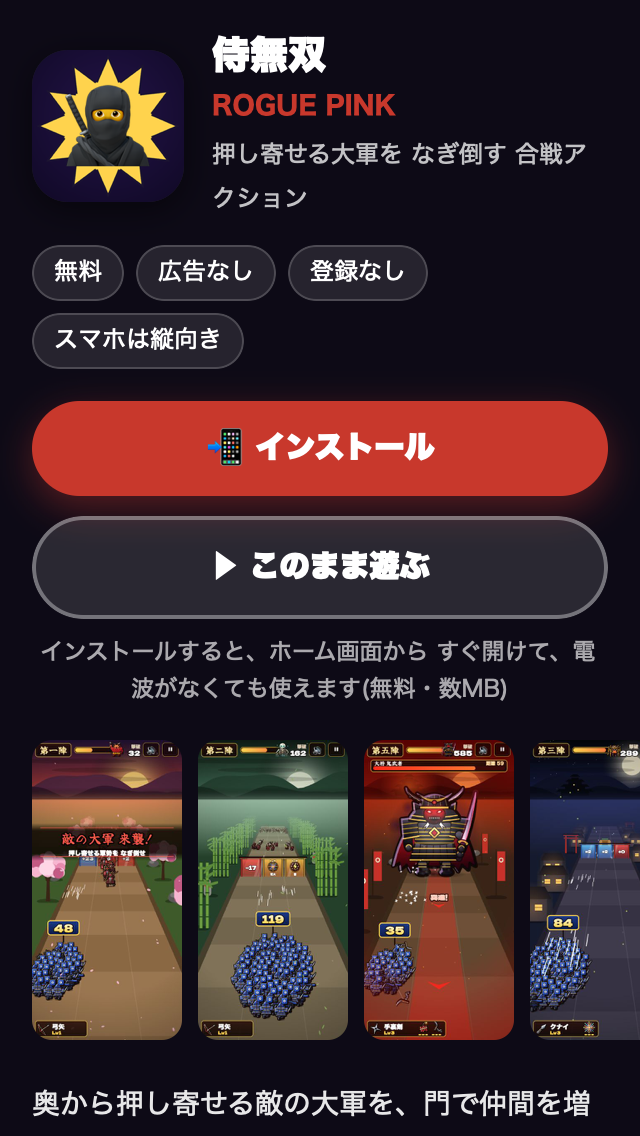
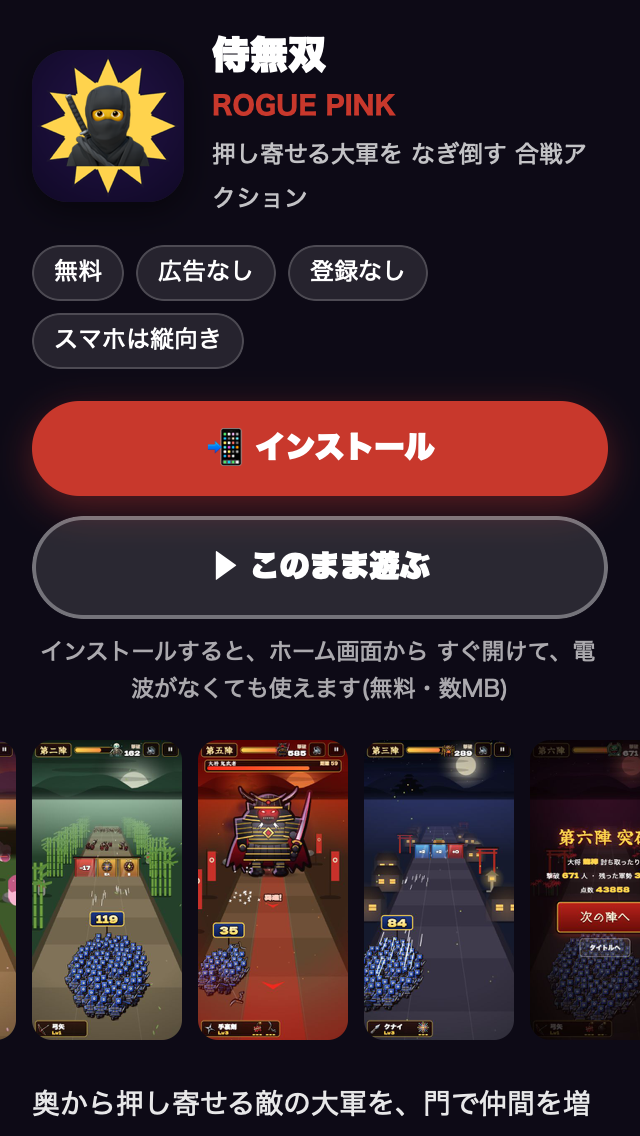
第五陣から少しずつ 増える量・減る量を大きくして 人数の上下をはげしく

Changed region(s): [[0.0, 0.647, 1.0, 0.9243]]

diff --git a/game.js b/game.js
@@ -151,15 +151,18 @@ var G = {
 };
 function n0(s) { return Math.min(30, 10 + 2 * (s - 1)); }
 function D(s) { return 1 + 0.08 * (s - 1); }
+function GK(s) { return 1 + Math.min(1.6, Math.max(0, s - 4) * 0.1); }   // 第五陣から 増える量・減る量を少しずつ大きく(人数の上下を はげしく)
 function expN(s, p) { var a = n0(s), e = 220 * (1 + 0.12 * (s - 1)); return a * Math.pow(e / a, p); }
 function unitDps(p) { return 3 + 3 * p; }
 function expDPS(s, p) { return expN(s, p) * unitDps(p); }
 function mainUnitDps() { var w = MAIN[G.main]; return w.dmg * w.rate * LVMUL[G.mainLv] * G.power; }
 function P() { return Math.max(1, G.n) * mainUnitDps(); }                                  // いまの攻撃の強さ(1秒あたり)
-function bulletDmgExp(s, p) { return expN(s, p) * (1 + 0.8 * p) / MAX_SHOOT; }            // ふつうの1発の強さ
+function expE(s, p) { return expN(s, p) * (1 + (GK(s) - 1) * 0.75); }   // 敵の強さの もとになる人数(味方が増えるぶん 敵も少し強く)
+function bulletDmgExp(s, p) { return expE(s, p) * (1 + 0.8 * p) / MAX_SHOOT; }            // ふつうの1発の強さ
 function actBulletDmg() { return Math.max(1, G.n) * MAIN[G.main].dmg * LVMUL[G.mainLv] * G.power / Math.min(G.n || 1, MAX_SHOOT); }
 function hpUnit(s, p) { return (0.6 * bulletDmgExp(s, p) + 0.4 * Math.min(actBulletDmg(), bulletDmgExp(s, p) * 3)) * D(s); }
-function powUnit(s, p) { return Math.max(1, Math.round(expN(s, p) * 0.017 * Math.sqrt(D(s)))); }
+function s5rec() { return Math.max(3, 6 - Math.floor(Math.max(0, G.stage - 4) / 3)); }   // 何人倒すと1人 降参するか(陣が進むと少なく)
+function powUnit(s, p) { return Math.max(1, Math.round(expE(s, p) * 0.017 * Math.sqrt(D(s)))); }
 function squadR() { return 7.4 * Math.sqrt(Math.max(1, Math.min(G.nShow, MAXSHOW))) + 10; }
 
 /* ---------------- 陣を組み立てる ---------------- */
@@ -172,6 +175,8 @@ function buildStage(s) {
     if (s >= 3) plan.splice(9, 0, 'K');
     if (s >= 4) plan.splice(5, 0, 'W');
     if (s >= 6) plan.splice(12, 0, 'A');
+    if (s >= 7) plan.splice(6, 0, 'J');
+    if (s >= 10) plan.splice(13, 0, 'G');
     if (rnd() < 0.5) { var t = plan[3]; plan[3] = plan[9]; plan[9] = t; }
   }
   var ev = [], at = 160;
@@ -208,10 +213,11 @@ function spawnEvent(e) {
 function numGate(op, v) { return { kind: 'num', op: op, v: v, charge: 0, flash: 0 }; }
 function spawnNumGates(e) {
   var s = G.stage, p = e.p, base = expN(s, p);
-  var good = Math.max(5, nice(base * rr(0.65, 1.05))), good2 = Math.max(3, nice(base * rr(0.25, 0.45)));
-  var bad = Math.max(3, nice(base * rr(0.3, 0.6))), bad2 = Math.max(2, nice(base * rr(0.15, 0.3)));
+  var gk = GK(s), bk = 1 + (gk - 1) * 0.7;
+  var good = Math.max(5, nice(base * rr(0.65, 1.05) * gk)), good2 = Math.max(3, nice(base * rr(0.25, 0.45) * gk));
+  var bad = Math.max(3, nice(base * rr(0.3, 0.6) * bk)), bad2 = Math.max(2, nice(base * rr(0.15, 0.3) * bk));
   var list, r = rnd();
-  if (e.first) list = [numGate('add', nice(base * 1.4)), numGate('add', -bad), numGate('add', good2)];
+  if (e.first) list = [numGate('add', nice(base * 1.4 * gk)), numGate('add', -bad), numGate('add', good2)];
   else if (r < 0.3) list = [numGate('add', good), numGate('mul', 1), numGate('add', -bad)];
   else if (r < 0.5) list = [numGate('add', -bad), numGate('add', good), numGate('mul', -1)];
   else if (r < 0.7) list = [numGate('mul', p > 0.4 && rnd() < 0.5 ? 2 : 1), numGate('add', -bad), numGate('add', good2)];
@@ -231,8 +237,9 @@ function spawnWeaponGates(e) {
   var s = G.stage, p = e.p, base = expN(s, p), ws = offerWeapons(2), list;
   var wg = function (k) { return { kind: 'wpn', w: k, lv: 1, charge: 0, flash: 0 }; };
   if (ws.length < 2) { spawnNumGates(e); return; }
-  if (rnd() < 0.55) list = [wg(ws[0]), wg(ws[1]), numGate('add', Math.max(4, nice(base * rr(0.5, 0.8))))];
-  else list = [wg(ws[0]), numGate('add', -Math.max(3, nice(base * rr(0.3, 0.5)))), wg(ws[1])];
+  var gk = GK(s);
+  if (rnd() < 0.55) list = [wg(ws[0]), wg(ws[1]), numGate('add', Math.max(4, nice(base * rr(0.5, 0.8) * gk)))];
+  else list = [wg(ws[0]), numGate('add', -Math.max(3, nice(base * rr(0.3, 0.5) * (1 + (gk - 1) * 0.7)))), wg(ws[1])];
   addGateRow(shuffle(list), base);
 }
 function addGateRow(list, base) {
@@ -255,7 +262,7 @@ function addEnemy(type, x, z, p, hpMul, powMul) {
 }
 function spawnWave(e) {
   var s = G.stage, p = e.p, pool = avail(s), main = pick(pool);
-  var count = clamp(Math.round(expN(s, p) * 0.38 + 9 + s), 12, 90), cols = count < 24 ? 6 : 9, sp = (ROAD * 2 - 30) / (cols - 1);
+  var count = clamp(Math.round(expE(s, p) * 0.3 + 9 + s), 12, 110), cols = count < 24 ? 6 : 9, sp = (ROAD * 2 - 30) / (cols - 1);
   for (var i = 0; i < count; i++) {
     var c = i % cols, row = Math.floor(i / cols), t = rnd() < 0.7 ? main : pick(pool);
     addEnemy(t, -ROAD + 15 + c * sp + rr(-7, 7) + (row % 2) * sp * 0.5, SPAWN + row * 30 + rr(0, 10), p);
@@ -498,7 +505,7 @@ function killEnemy(e, byShot) {
   e.hp = 0; e.dead = true;
   if (byShot) {
     G.score += Math.round(e.sc * (1 + G.stage * 0.2)); G.kills++; G.stageKills++;
-    if (G.n > 0 && G.clearT <= 0) { G.rec += e.T.big ? 6 : 1; while (G.rec >= 6) { G.rec -= 6; G.n++; G.recShow++; } }   // 倒すと 降参兵が仲間に
+    if (G.n > 0 && G.clearT <= 0) { var per = s5rec(); G.rec += e.T.big ? per : 1; while (G.rec >= per) { G.rec -= per; G.n++; G.recShow++; } }   // 倒すと 降参兵が仲間に
   }
   var big = e.T.big || e.type === 'kiba';
   if (G.fx.length < 420) {
@@ -676,7 +683,7 @@ function updGates(dt) {
 }
 /* ---- 加勢の兵(道ばたで待っている味方。その列を通ると合流) ---- */
 function spawnAllies(e) {
-  var s = G.stage, n = Math.max(10, nice(expN(s, e.p) * rr(0.6, 0.9)));
+  var s = G.stage, n = Math.max(10, nice(expN(s, e.p) * rr(0.6, 0.9) * GK(s)));
   G.allies.push({ z: SPAWN, lane: Math.floor(rnd() * 3), n: n, taken: false, fade: 1 });
 }
 function updAllies(dt) {
